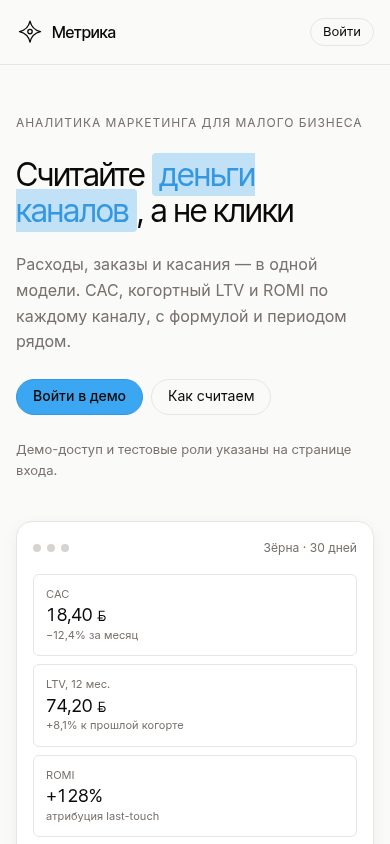
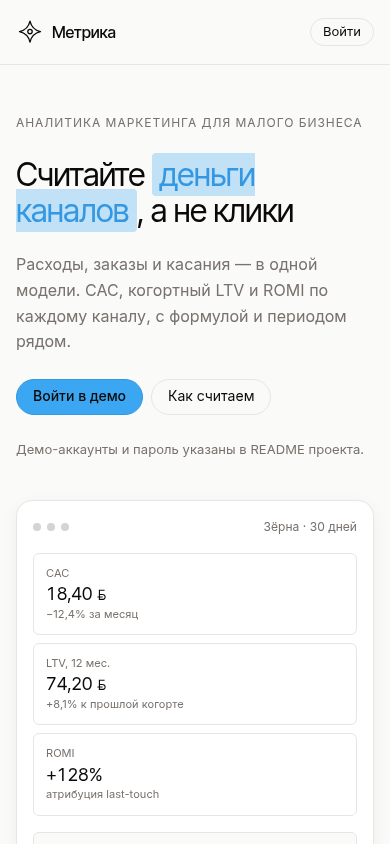
docs: fix backup key runbook and refresh guide evidence
The backup section created a key but never told the reader to set BACKUP_KEY_FILE, so the first documented npm run backup would fail. The one-time setup now writes the .env line, and the Docker Desktop and Compose backup sections say key first. Stale §5.2 references in the key-permission comments and security audit now point to §5.6. The landing was recaptured after 17a4f12, and the import-success and mobile landing captures are referenced by the user guide; missing scenario/import-batch captures are recorded. No version constants or product behavior changed.

diff --git a/scripts/lib/backup-format.js b/scripts/lib/backup-format.js
@@ -159,7 +159,7 @@ export function backupFileName(date = new Date()) {
  * POSIX: a key readable by group or others is refused, because the whole point of a key file is that only the
  * service account can read it. `--allow-loose-key` is the explicit override for a platform that cannot express
  * 0600. Windows has no meaningful POSIX mode bits, so the check degrades to a warning and the ACL must be verified
- * with `icacls` (docs/deployment.md §5.2).
+ * with `icacls` (docs/deployment.md §5.6).
  *
  * @param {string | undefined} keyFile
  * @param {{ allowLooseKey?: boolean, platform?: NodeJS.Platform }} [options] `platform` is injectable for tests.
@@ -181,7 +181,7 @@ export async function assertKeyFileMode(keyFile, { allowLooseKey = false, platfo
     if (!allowLooseKey) {
       console.warn(
         `Внимание: на Windows права POSIX для "${keyFile}" не проверяются; ACL задайте через icacls ` +
-          '(docs/deployment.md §5.2).',
+          '(docs/deployment.md §5.6).',
       );
     }
     return;

diff --git a/docs/deployment.md b/docs/deployment.md
@@ -337,7 +337,8 @@ Invoke-RestMethod http://127.0.0.1:3000/health
 ```
 
 Compose-путь не требует `.env`: логин, пароль БД и секрет сессии создаются внутри контейнера. Для сброса стенда
-используйте `docker compose down -v` (удаляет БД, секрет и бэкапы). Бэкап запускается внутри контейнера:
+используйте `docker compose down -v` (удаляет БД, секрет и бэкапы). **Сначала создайте ключ по §7.5** — без него
+`backup.js` завершится ошибкой `BACKUP_KEY_FILE`. После этого бэкап запускается внутри контейнера:
 
 ```powershell
 docker compose exec -T app node scripts/backup.js
@@ -565,7 +566,7 @@ MTRKBK1\0 | uint32BE длина заголовка | JSON {"v":1,"alg":"aes-256-
 поэтому проверка не блокирует запуск: скрипт предупреждает, что ACL нужно проверить через `icacls`
 (docs/deployment.md §5.6).
 
-Linux/macOS, один раз:
+Linux/macOS, один раз. Сначала создайте ключ, затем укажите его в `.env`:
 
 ```bash
 install -d -m 700 backups
@@ -573,8 +574,14 @@ node -e "console.log(require('node:crypto').randomBytes(32).toString('hex'))" > 
 chmod 600 backups/backup.key
 ```
 
-`backups/` и `*.dump.enc` уже в `.gitignore`. Windows — §5.6. Один и тот же ключ нужен для восстановления: без
-него файл не расшифровать, восстановление невозможно.
+```dotenv
+BACKUP_KEY_FILE=./backups/backup.key
+```
+
+Без этой строки `npm run backup` не найдёт ключ и завершится ошибкой; переменную можно экспортировать в
+оболочке вместо `.env`, но для Планировщика и повторных запусков надёжнее файл. `backups/` и `*.dump.enc` уже в
+`.gitignore`. Windows — §5.6. Один и тот же ключ нужен для восстановления: без него файл не расшифровать,
+восстановление невозможно.
 
 ### 7.2. Создание копии
 
@@ -672,8 +679,9 @@ npm run restore -- --file ./backups/<file>.dump.enc --database <имя_базы_
 ### 7.5. Docker/Compose
 
 В Compose уже заданы `BACKUP_KEY_FILE=/app/data/backup.key`, `BACKUP_DIR=/backup`,
-`RESTORE_TMP_DIR=/app/data/tmp`; `BACKUP_KEY` в окружении отсутствует. Ключ создаётся один раз внутри контейнера
-(файл в volume `app_data`, не в образе):
+`RESTORE_TMP_DIR=/app/data/tmp`; `BACKUP_KEY` в окружении отсутствует. Сначала ключ, потом бэкап: без файла ключа
+`scripts/backup.js` откажется работать. Ключ создаётся один раз внутри контейнера (файл в volume `app_data`, не в
+образе):
 
 ```bash
 docker compose exec -T app node -e "require('node:fs').writeFileSync('/app/data/backup.key', require('node:crypto').randomBytes(32).toString('hex')+'\n', {mode:0o600})"

diff --git a/docs/screenshots/m6/README.md b/docs/screenshots/m6/README.md
@@ -366,7 +366,7 @@ PGPASSWORD_SET
 no password in argv
 ```
 
-  Имя роли в примере обезличено; команда и вывод остальные.
+  Имя роли в примере обезличено; команда и остальной вывод не изменены.
 
   Интеграционный тест дополнительно проверяет, что `review-secret` из `DATABASE_URL` не встречается ни в одном
   залогированном argv и что дочерний процесс видит `PGPASSWORD`.
@@ -803,8 +803,9 @@ If-None-Match: <etag> → 304, 0 bytes
 
 ## Task 7 — снимки для руководства пользователя
 
-Дата съёмки: 24.11.2026. База: `85a8f67`; UI не менялся с `6eb69cb`, отличаются только тесты и валидатор импорта.
-Стенд — native Linux, Node.js на хосте, PostgreSQL 18, отдельный процесс на `127.0.0.1:3100`, браузер Chromium
+Дата съёмки: 24.11.2026. Основные снимки — на `85a8f67`; лендинг переснят после `17a4f12` на текущем HEAD, потому
+что изменился текст про демо-доступ. Стенд — native Linux, Node.js на хосте, PostgreSQL 18, отдельный процесс
+на `127.0.0.1:3100`, браузер Chromium
 через `agent-browser`, ширина 1440×1000 (мобильный снимок — 390×844). Перед съёмкой БД `metrika_dev` пересижена:
 data anchor `2026-11-23`, 8 каналов, 32 кампании, 3 пользователя. Все снимки сняты после гидратации островов;
 `agent-browser console` и `agent-browser errors` на каждом экране пусты.

diff --git a/docs/security-audit.md b/docs/security-audit.md
@@ -164,7 +164,7 @@ HSTS не отправляется в демо-режиме без HTTPS: обе
 - Смена `SESSION_SECRET` разлогинивает всех: cookie подписаны старым секретом. Плановая ротация — смена секрета
   и перезапуск; отдельного «двойного» ключа для плавного перехода нет.
 - Ключ бэкапа — 32 байта, только файл `BACKUP_KEY_FILE` с правами `0600` (Windows ACL — `docs/deployment.md`
-  §5.2), не переменная окружения Compose. Без ключа файл `*.dump.enc` не расшифровать; потеря ключа означает
+  §5.6), не переменная окружения Compose. Без ключа файл `*.dump.enc` не расшифровать; потеря ключа означает
   потерю копий. Ротация ключа не перешифровывает старые архивы: старый ключ нужно хранить столько же, сколько
   сами копии.
 - Бэкап — `pg_dump --format=custom`, AES-256-GCM, атомарная запись, retention по возрасту. Восстановление

diff --git a/README.md b/README.md
@@ -378,7 +378,7 @@ docs/
   performance.md             EXPLAIN, бюджеты запросов и размеры бандлов
   superpowers/specs/         архитектура, метрики, трассировка требований
   superpowers/plans/         дорожная карта и планы этапов
-  screenshots/m1–m5/         журналы браузерной проверки этапов
+  screenshots/m1, m2, m4, m5/  журналы браузерной проверки этапов
   screenshots/m6/            E2E, a11y, ошибки и снимки для руководства
 ```
 
